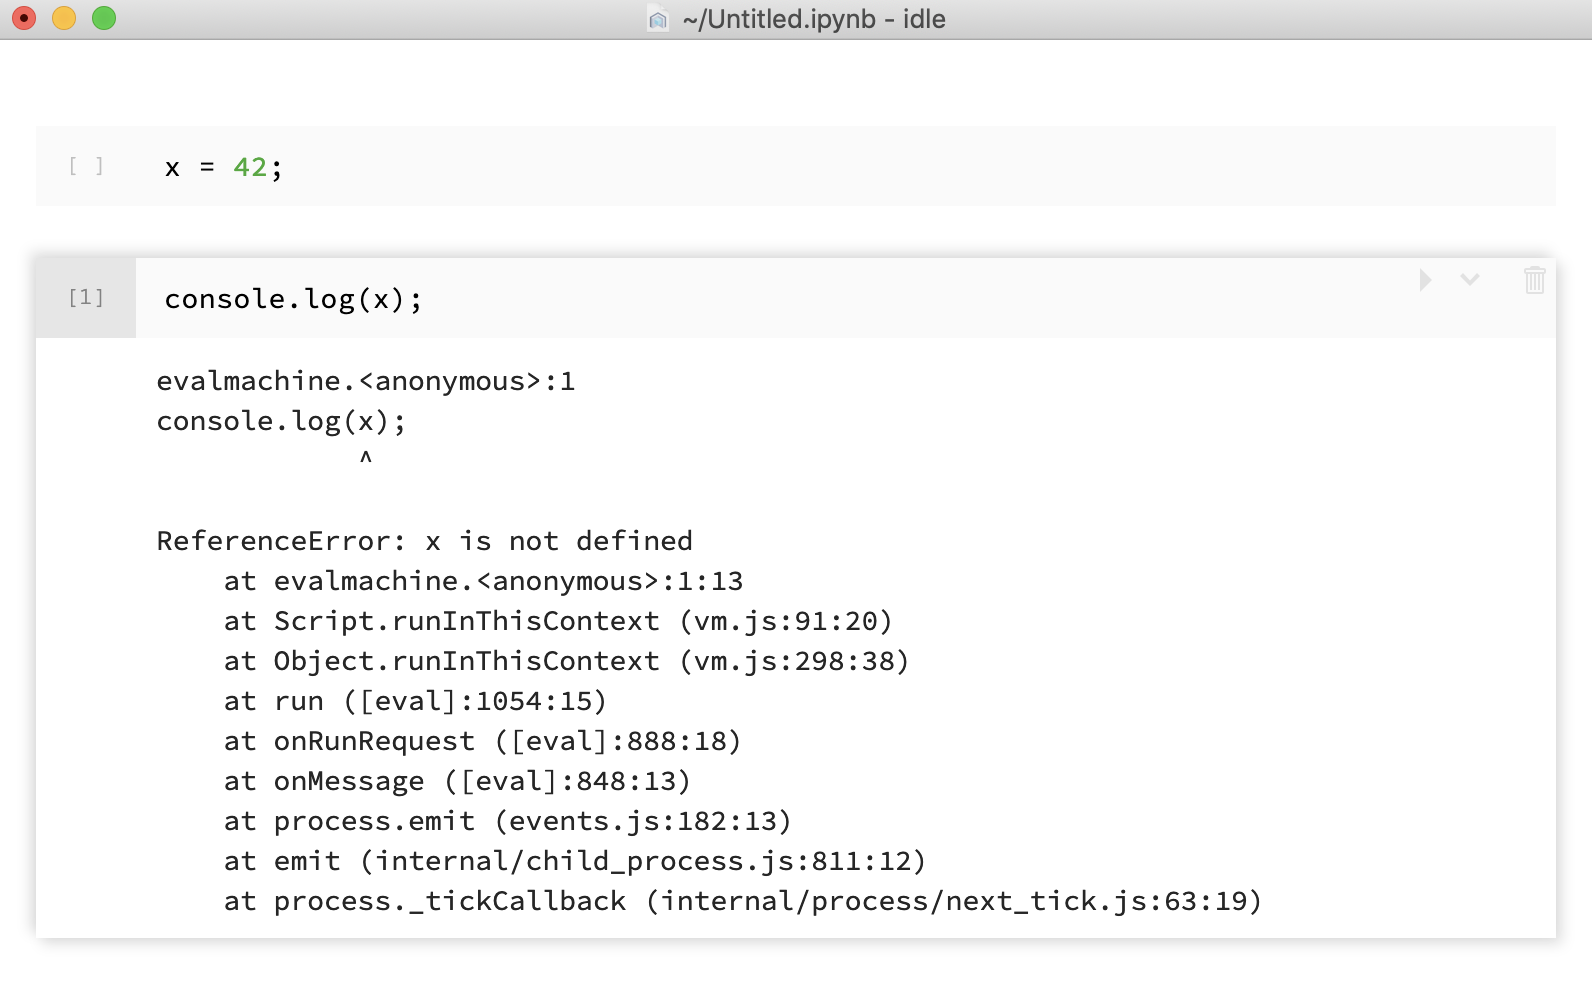
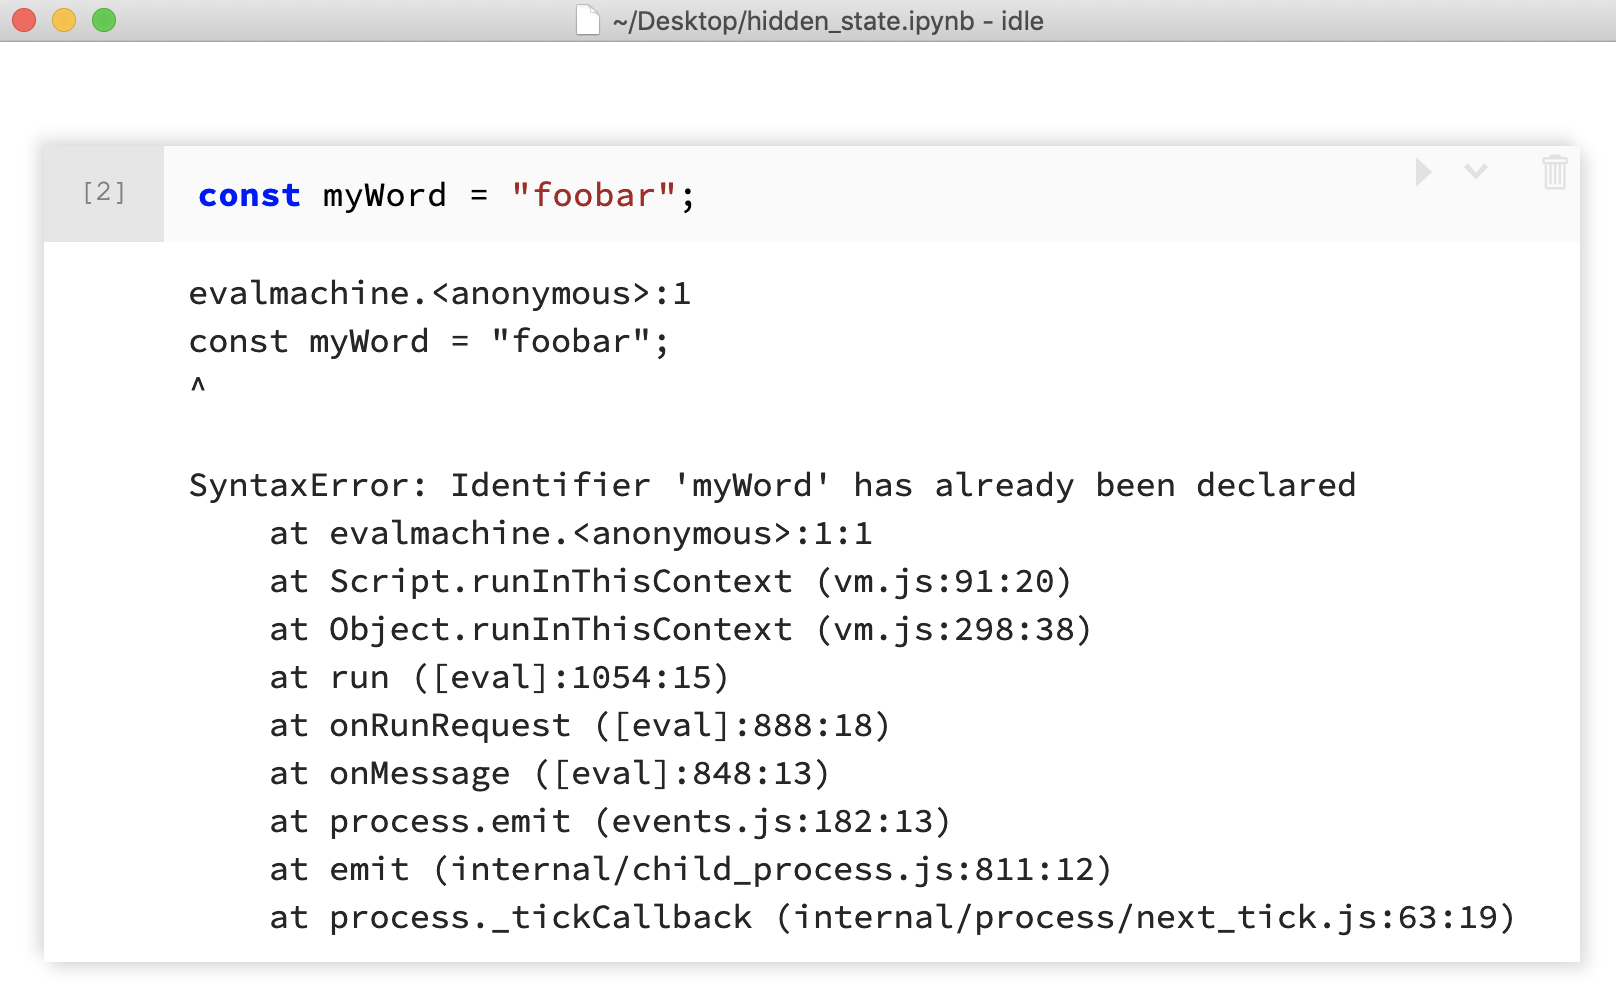
create 2 image slidehow of hidden state

diff --git a/javascripts/application.js b/javascripts/application.js
@@ -4,21 +4,17 @@ $(function() {
   const $nextButton = $("#nextButton");
   const $resetButton = $("#resetButton");
   const image = document.getElementById("hidden-state");
+  const $image = $("#hidden-state");
 
   $nextButton.on("click", function(e) {
     e.preventDefault();
 
     if (image.src.match("slide_1")) {
       image.src = "images/diagrams/slides/hidden_state/slide_2.png";
+      $image
+        .next("p")
+        .text("Typo is fixed, and cell is run again resulting in an error.");
     } else if (image.src.match("slide_2")) {
-      image.src = "images/diagrams/slides/hidden_state/slide_3.png";
-    } else if (image.src.match("slide_3")) {
-      image.src = "images/diagrams/slides/hidden_state/slide_4.png";
-    } else if (image.src.match("slide_4")) {
-      image.src = "images/diagrams/slides/hidden_state/slide_5.png";
-    } else if (image.src.match("slide_5")) {
-      image.src = "images/diagrams/slides/hidden_state/slide_6.png";
-    } else if (image.src.match("slide_6")) {
       $nextButton.prop("disabled", true);
     }
   });
@@ -27,6 +23,7 @@ $(function() {
     e.preventDefault();
     $nextButton.prop("disabled", false);
     image.src = "images/diagrams/slides/hidden_state/slide_1.png";
+    $image.next("p").text("Cell is executed with a typo.");
   });
 });
 

diff --git a/index.html b/index.html
@@ -216,9 +216,8 @@
         <div class="img-wrapper">
           <img src="images/diagrams/slides/hidden_state/slide_1.png" id="hidden-state" data-id="1"
             alt="Hidden State1" />
-
           <p>
-            Hidden state in Jupyter notebooks
+            Cell is executed with a typo.
           </p>
           <div class="buttons">
             <button id="resetButton" class="redpointButton">Reset</button>
@@ -226,8 +225,6 @@
             <button id="nextButton" class="redpointButton">&rarr;</button>
           </div>
         </div>
-        <p>GIF of Jupyter running const twice</p>
-        <p>Caption: Hidden state in Jupyter notebooks can lead to confusing results </p>
         <p>As far as the underlying program state is concerned, the variable ‘foo’ has already been declared. This
           hidden
           notebook state can make iterating on code confusing for programmers used to top-to-bottom execution. It also

diff --git a/stylesheets/main.css b/stylesheets/main.css
@@ -582,7 +582,7 @@ hr {
 
 .buttons {
   width: 250px;
-  margin: 0 auto;
+  margin: 10px auto;
   padding: 5px;
   text-align: center;
 }
